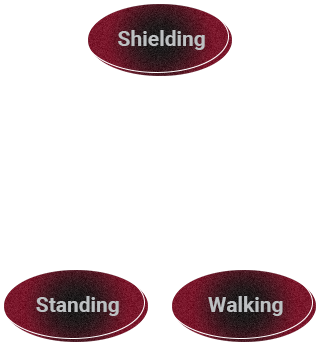
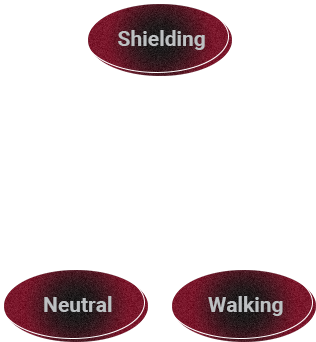
serif

Changed region(s): [[0.1139, 0.848, 0.3987, 0.9357]]

diff --git a/index.html b/index.html
@@ -232,7 +232,7 @@
             </div>
         </div>
         <p>To understand why this all works, you must first understand the keywords that <cite>Overwatch</cite> uses to define how abilities interact with the player character's state machine. All abilities in <cite>Overwatch</cite>, including Ultimates, are activated in one of three ways: Channelling, Transforming, or Casting.</p>
-        <p>Channelled abilities are abilities that change the character's default state while active. For example, Brig's Shield ability is a Channelled ability because Brig goes from the default standing state (Fig. 1 below) to the shielding state (Fig. 2) with each state having separate actions available to them. Crucially, channelled abilities can be interrupted by crowd control abilities such as stuns or hacks, which will force the character back into their default state (e.g. if Brig is stunned while she has her shield up, she will forcibly drop shield and return to the neutral, standing state).</p>
+        <p>Channelled abilities are abilities that change the character's default state while active. For example, Brig's Shield ability is a Channelled ability because Brig goes from the neutral default state (Fig. 1 below) to the shielding default state (Fig. 2) with each state having separate actions available to them. Crucially, channelled abilities can be interrupted by crowd control abilities such as stuns or hacks, which will force the character back into their neutral state (e.g. if Brig is stunned while she has her shield up, she will forcibly drop shield and return to the neutral standing state).</p>
         <div style="display:flex;flex-direction:row">
             <figure><figcaption>Fig. 1</figcaption><img src="assets/state-machine_fig-1.webp"></figure>
             <figure><figcaption>Fig. 2</figcaption><img src="assets/state-machine_fig-2.webp"></figure>

diff --git a/styles.css b/styles.css
@@ -16,8 +16,8 @@
     --faded-color:#383838;
     --white:#fcfcfc;
     /* font */
-    --header-font: Bebas Neue;
-    --text-font: Roboto Flex;
+    --header-font: "Bebas Neue", serif;
+    --text-font: "Roboto Flex", sans-serif;
     /* img */
     --bg-image:url("assets/background-noise.png");
     --brig-idle:url("assets/idle_anim.avif");
@@ -186,6 +186,7 @@ h4, h5, h6{
     margin-top:14px;
     pointer-events:none;
     user-select:none;
+    font-family:sans-serif;
 }
 
 .arrow-break p{
